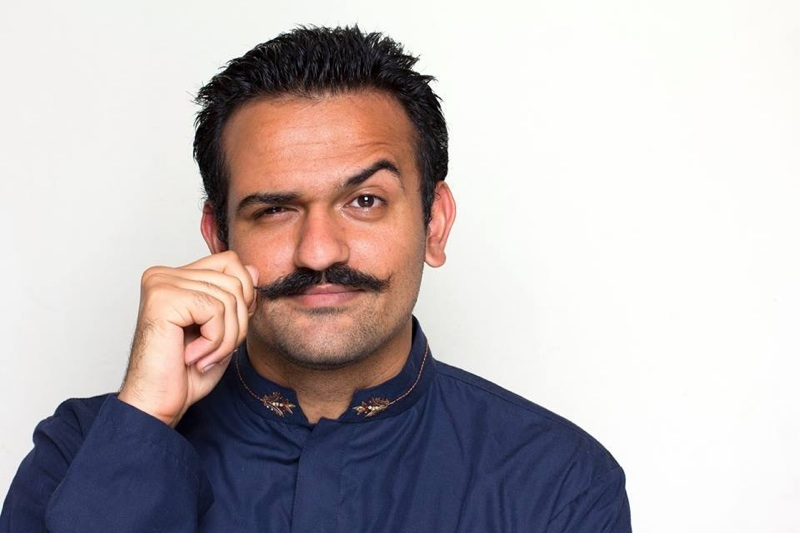
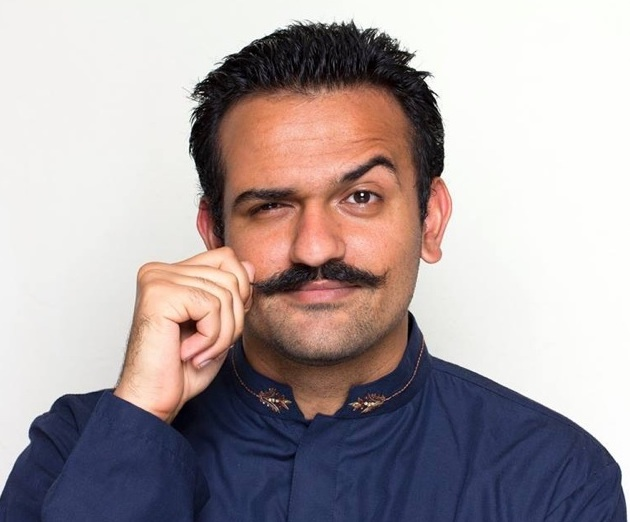
resize profile pic, update word wraping for main section

diff --git a/index.html b/index.html
@@ -7,19 +7,20 @@
 
     <!-- Bootstrap CSS -->
     <link href="https://cdn.jsdelivr.net/npm/bootstrap@5.0.0-beta1/dist/css/bootstrap.min.css" rel="stylesheet" integrity="sha384-giJF6kkoqNQ00vy+HMDP7azOuL0xtbfIcaT9wjKHr8RbDVddVHyTfAAsrekwKmP1" crossorigin="anonymous">
+    <link rel="stylesheet" href="assets/css/style.css">
 
     <title>Muhammad A Khalid | Home</title>
   </head>
   <body style="background-image: url(assets/images/xmen.jpg); background-position: center top; background-repeat: no-repeat">
 
     <!-- Navbar -->
-    <nav class="navbar navbar-expand-lg navbar-dark bg-dark">
+    <nav class="navbar navbar-expand-lg navbar-light bg-light ">
       <div class="container-fluid">
-        <a class="navbar-brand" href="index.html" style="color:white;">Muhammad A Khalid</a>
+        <a class="navbar-brand" href="index.html" style="color:white; background-color:teal;">Muhammad A Khalid</a>
         <button class="navbar-toggler" type="button" data-bs-toggle="collapse" data-bs-target="#navbarNav" aria-controls="navbarNav" aria-expanded="false" aria-label="Toggle navigation">
           <span class="navbar-toggler-icon"></span>
         </button>
-        <div class="collapse navbar-collapse" id="navbarNav">
+        <div class="collapse navbar-collapse " id="navbarNav">
           <ul class="navbar-nav">
             <li class="nav-item">
               <a class="nav-link active" aria-current="page" href="index.html">Home</a>
@@ -34,25 +35,28 @@
         </div>
       </div>
     </nav>
+    <header>
 
+    </header>
     <!-- Grid System -->
-    <div class="container col-sm-4 bg-light">
+    <div class="container-fluid col-md-8 bg-light mt-3">
       <div class="row">
-        <div class="col-sm-8">
+        <div class="col-md-9">
           <div class="row">
             <h1>About Me</h1>
             <hr>
           </div>
-          <div class="row"> 
-            <img src="https://via.placeholder.com/100" class="img-thumbnail" alt="">
-              <p>Now this is a story all about how 
-              My life got flipped turned upside down
-              And I'd like to take a minute, just sit right there
-              I'll tell you how I became the prince of a town called Bel-Air.
+          <div class="col-lg-6"> 
+            <img src="assets/images/updatedprofile.jpg" class="img-rounded float-left" style="width:50%;height:50%; float:left;" alt="Muhammad">
+              <p>Lorem ipsum dolor sit amet consectetur adipisicing elit. Voluptas ratione beatae nisi ducimus reiciendis, ut perferendis ex. Sequi iure, inventore cupiditate ea dolorem soluta quam id! Consequuntur repellat deleniti. Lorem ipsum dolor sit amet consectetur adipisicing elit. Voluptas ratione beatae nisi ducimus reiciendis, ut perferendis ex. Sequi iure, inventore cupiditate ea dolorem soluta quam id! Consequuntur repellat deleniti dignissimos!
             </p>
+            <br>
+            <p>Lorem ipsum dolor, sit amet consectetur adipisicing elit. Totam quod quam aperiam alias et enim impedit aliquam ipsum placeat libero? Ullam voluptas quos quam, velit expedita culpa facilis mollitia corrupti.</p>
           </div>
         </div>
-        <div class="col-sm-4"></div>
+        <div class="col-md-3">
+          spacer
+        </div>
       </div>
     </div>
 

diff --git a/assets/css/style.css b/assets/css/style.css
@@ -1,0 +1,7 @@
+nav {
+  margin-bottom: 100px;
+}
+
+h1 {
+  color: teal;
+}
